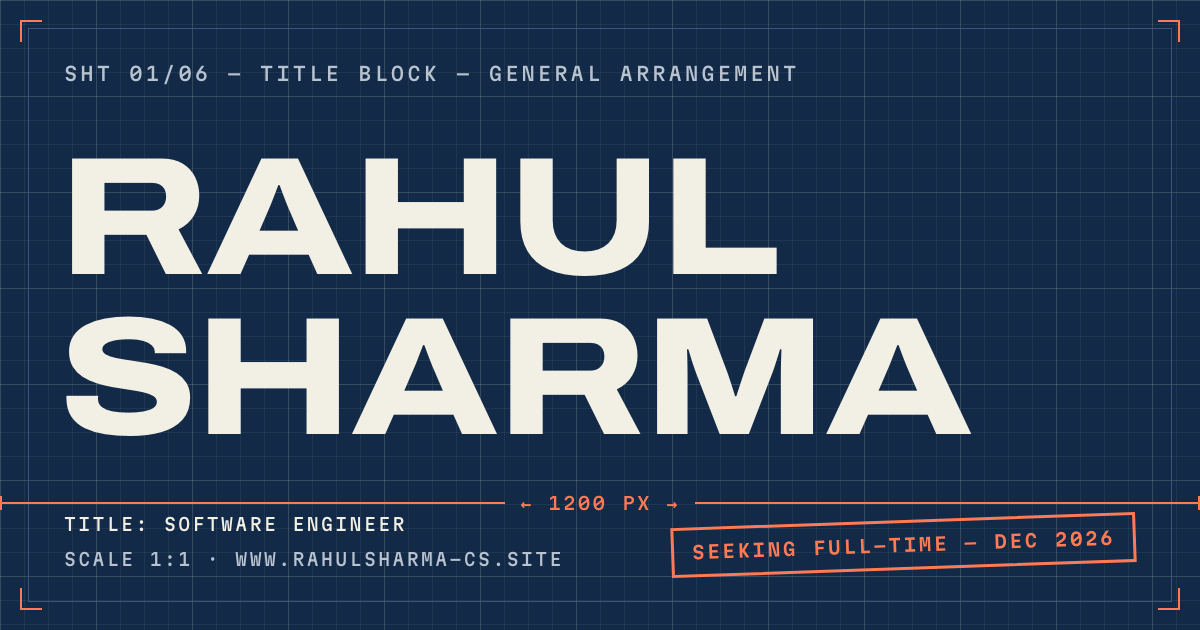
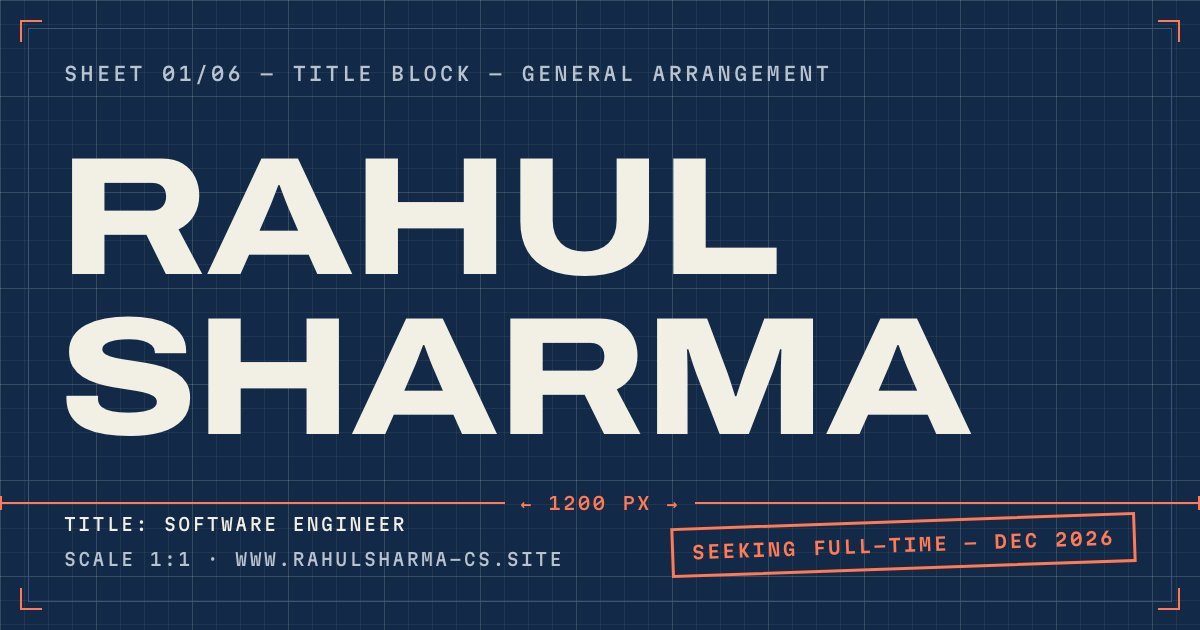
spell out SHEET in the eyebrows, footer, nav and social card

Changed region(s): [[0.0925, 0.0905, 0.6783, 0.1508]]

diff --git a/src/components/chrome/measurement-nav.tsx b/src/components/chrome/measurement-nav.tsx
@@ -61,7 +61,7 @@ export default function MeasurementNav() {
           onClick={() => setOpen((v) => !v)}
         >
           <span aria-hidden className="h-2 w-px bg-redline" />
-          SHT {active.num}/06<span className="hidden sm:inline"> — {active.name.toUpperCase()}</span>
+          SHEET {active.num}/06<span className="hidden sm:inline"> — {active.name.toUpperCase()}</span>
           <span aria-hidden className="text-pencil">{open ? "▴" : "▾"}</span>
         </button>
 

diff --git a/src/components/drafting/sheet.tsx b/src/components/drafting/sheet.tsx
@@ -52,7 +52,7 @@ export default function Sheet({
       </motion.span>
       <div className="relative mx-auto w-full max-w-6xl px-5 sm:px-8">
         <Eyebrow className="mb-2 font-mono text-anno-sm font-medium uppercase tracking-[0.16em] text-pencil">
-          SHT {link.num}/06 — {eyebrow}
+          SHEET {link.num}/06 — {eyebrow}
         </Eyebrow>
         <RuleX className="mb-10" />
         {children}

diff --git a/src/components/chrome/sheet-footer.tsx b/src/components/chrome/sheet-footer.tsx
@@ -18,7 +18,7 @@ export default function SheetFooter() {
         aria-hidden
         className="pointer-events-none fixed bottom-3 right-8 z-30 hidden font-mono text-anno-sm uppercase tracking-[0.16em] text-pencil sm:block"
       >
-        Rahul Sharma — Drawing Set — SHT {num}/06
+        Rahul Sharma — Drawing Set — SHEET {num}/06
       </p>
     </>
   );
